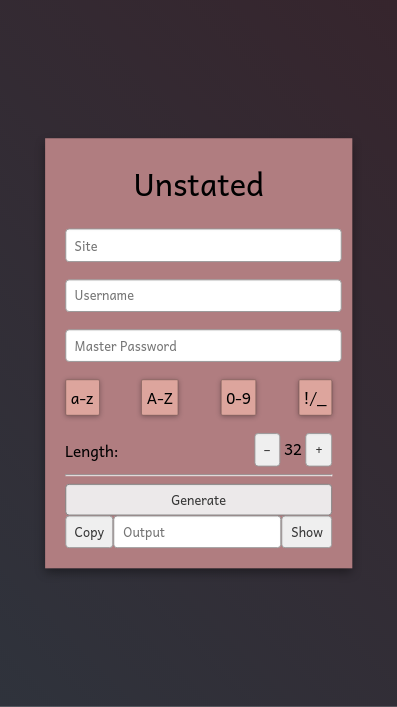
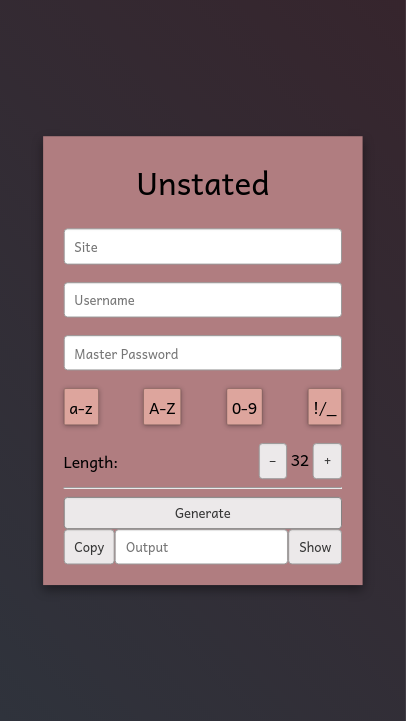
Fix input widths, add copy animation, update README and screenshot

diff --git a/index.html b/index.html
@@ -15,6 +15,18 @@
         --acc-2: #ece9ea;
       }
 
+      @keyframes success {
+        0% {
+          background: white;
+        }
+        50% {
+          background: #48c774;
+        }
+        100% {
+          background: white;
+        }
+      }
+
       html, body {
         margin: 0;
         padding: 0;
@@ -36,10 +48,10 @@
         border-radius: 4px;
         color: #363636;
         border: 1px solid #999;
-        padding-top: calc(0.5em - 1px);
-        padding-bottom: calc(0.5em - 1px);
-        padding-left: calc(0.75em - 1px);
-        padding-right: calc(0.75em - 1px);
+        padding-top: 0.5em;
+        padding-bottom: 0.5em;
+        padding-left: 0.75em;
+        padding-right: 0.75em;
         outline: 0;
       }
       input[type="text"]:hover,
@@ -55,8 +67,15 @@
       input[type="password"].invalid {
         border-color: #f14668;
       }
+      input[type="text"].success,
+      input[type="password"].success {
+        animation: success 0.3s;
+      }
+      input#output:focus {
+          border-color: #48c774;
+      }
       input.fullwidth {
-        width: calc(100% - 10px);
+        width: calc(100% - 1.5em - 2px);
       }
 
       input[type="checkbox"] {
@@ -80,11 +99,13 @@
         box-shadow: 0 1px 5px rgba(0, 0, 0, 0.3);
       }
 
+      button {
+        background: var(--acc-2);
+      }
       button[type="submit"] {
         width: 100%;
         padding: 5px;
         border: 1px solid grey;
-        background: var(--acc-2);
         outline: 0;
       }
 

diff --git a/unstated.js b/unstated.js
@@ -121,7 +121,11 @@ d('copy').addEventListener('click', ()=>{
   if(temp_flip){
     d('output').type = 'password';
   }
-  d('output').setSelectionRange(0, d('output').value.length);
+
+  d('output').classList.add('success');
+  setTimeout(()=>{
+    d('output').classList.remove('success');
+  }, 300);
 });
 d('show').addEventListener('click', ()=>{
   d('output').type = (d('output').type==='password'?'text':'password');

diff --git a/README.md b/README.md
@@ -14,3 +14,9 @@ A simple stateless password manager, inspired by [LessPass](https://lesspass.com
 Password generation is a two-step process:
 1. A combination of the site name, username, and master password is SHA512/224 hashed.
 2. The output hash is encoded using a modified form of the Base64 encoding algorithm, mapping 3 character input segments to 4 characters of output.
+
+### To-Do
+
+- Beautify UI
+- Add mnemonic/icon generator to help with remembering master password
+- Write Chrome extension to automate password generation
